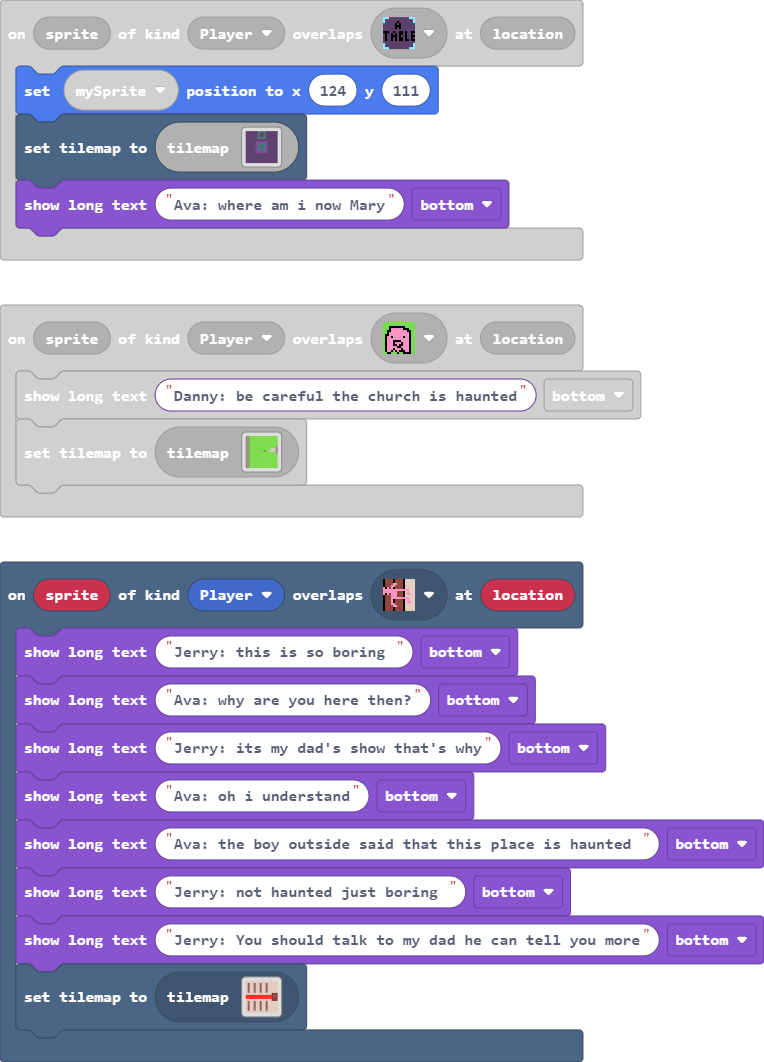
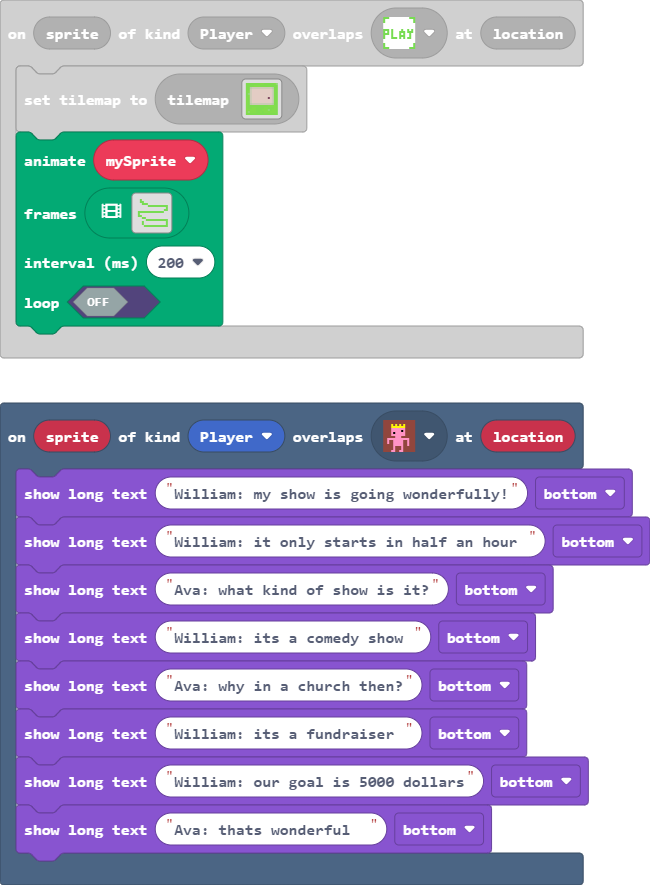
qwsdrfg

diff --git a/main.ts b/main.ts
@@ -355,6 +355,97 @@ scene.onOverlapTile(SpriteKind.Player, assets.tile`myTile21`, function (sprite, 
 })
 scene.onOverlapTile(SpriteKind.Player, assets.tile`myTile20`, function (sprite, location) {
     tiles.setCurrentTilemap(tilemap`level1`)
+    animation.runImageAnimation(
+    mySprite,
+    [img`
+        . . . . . . . . . . . . . . . . 
+        . . 7 . . . . . . . . . . . . . 
+        . . 7 7 . . . . . . . . . . . . 
+        . . . 7 7 7 . . . . . . . . . . 
+        . . . . . . 7 7 7 7 7 7 7 7 7 7 
+        . . . . . . . . . . . . . . . 7 
+        . . . . . . . . . . . . . . 7 7 
+        . 7 7 7 7 7 7 7 7 7 7 7 7 7 . . 
+        . 7 . . . . . . . . . . . . . . 
+        . 7 7 . . . . . . . . . . . . . 
+        . . . 7 7 . . . . . . . . . . . 
+        . . . . . 7 7 7 7 7 7 7 7 7 7 7 
+        . . . 7 . . . . . . . . . . . 7 
+        . . . 7 . . . . . . . . . . . 7 
+        . . . . 7 7 7 7 7 7 7 7 7 7 7 7 
+        . . . . . . . . . . . . . . . . 
+        `,img`
+        . . . . . . . . . . . . . . . . 
+        . . 7 . . . . . . . . . . . . . 
+        . . 7 7 . . . . 7 7 7 7 7 7 . . 
+        . . . 7 7 7 7 7 7 7 7 7 7 7 . . 
+        . . . 7 7 . 7 7 7 7 7 7 7 7 7 7 
+        . . 7 . . . . . . . . . . . . 7 
+        . . 7 . . . . . . . . . . . 7 7 
+        . 7 7 7 7 7 7 7 7 7 7 7 7 7 . . 
+        . 7 . . 7 7 7 7 7 7 . . . . . . 
+        . 7 7 . . . . . . . 7 7 . . . . 
+        . . . 7 7 . . . . . 7 7 . . . . 
+        . . . . . 7 7 7 7 7 7 7 7 7 7 7 
+        . . . 7 7 7 7 7 . . . . . . . 7 
+        . . . 7 . . . . . . . . . . . 7 
+        . . . . 7 7 7 7 7 7 7 7 7 7 7 7 
+        . . . . . . . . . . . . . . . . 
+        `,img`
+        . . . . . . . . . . . . . . . . 
+        . . 7 . . . . . . . . . . . . . 
+        . . 7 7 . e 7 7 7 7 7 7 7 7 . . 
+        . . . 7 7 7 7 7 7 7 7 7 7 7 . . 
+        . . . 7 7 7 7 7 7 7 7 7 7 7 7 7 
+        . . 7 . . . 7 7 7 7 . . . . . 7 
+        . . 7 . . e e e e e e . . . 7 7 
+        . 7 7 7 e e e 7 7 7 7 e e e . . 
+        . 7 . . e e 7 7 7 d 7 7 e e . . 
+        . 7 7 . . . d d d d d 7 7 7 . . 
+        . . . 7 7 d d d d d d 7 7 7 . . 
+        . . . . 7 7 7 7 7 7 7 7 7 7 7 7 
+        . . . 7 7 7 7 7 a a a a . . . 7 
+        . . . 7 . . . a a . . . . . . 7 
+        . . . . 7 7 f 7 7 7 7 7 f 7 7 7 
+        . . . . . . . . . . . . . . . . 
+        `,img`
+        . . . . . . . . . . . . . . . . 
+        . 7 . . . . . . . . . . . . . . 
+        . 7 7 7 . . . . . . . 7 7 . . . 
+        . . . 7 7 7 7 7 7 7 7 7 7 . . . 
+        . . . . . 7 7 7 7 7 7 7 7 7 7 . 
+        . . . 7 7 7 7 d 7 7 7 7 7 7 7 . 
+        . . 7 7 7 7 7 7 7 7 d e . . . . 
+        7 7 7 . e d f d d 7 7 e . . . . 
+        7 7 . . e d d d d d 7 7 . . . . 
+        7 7 7 7 e e d d d d e 7 . . . . 
+        7 7 7 . e e e d d e e 7 7 . . . 
+        . . 7 7 7 7 7 7 7 7 7 7 7 7 7 7 
+        . . . . . 7 7 7 7 7 7 . . . . 7 
+        . . . . . 7 a a a a 7 . . . . 7 
+        . . . . 7 7 7 7 7 7 7 7 7 7 7 7 
+        . . . 7 7 f f . . f f . . . . . 
+        `,img`
+        . . . . . . . . . . . . . . . . 
+        . . . . . . . . . . . . . . . . 
+        . . . . . . . . . . . . . . . . 
+        . . . . . . . . . . . . . . . . 
+        . . . . . e e e e e e . . . . . 
+        . . . . e e d d d d e e . . . . 
+        . . . . e d d d d d d e . . . . 
+        . . . . e d f d d f d e . . . . 
+        . . . . e d d d d d d e . . . . 
+        . . . . e e d d d d e e . . . . 
+        . . . . e e e d d e e e . . . . 
+        . . . . . 7 7 7 7 7 7 . . . . . 
+        . . . . . 7 7 7 7 7 7 . . . . . 
+        . . . . . 7 a a a a 7 . . . . . 
+        . . . . . d a . . a d . . . . . 
+        . . . . . f f . . f f . . . . . 
+        `],
+    200,
+    false
+    )
 })
 controller.right.onEvent(ControllerButtonEvent.Pressed, function () {
     animation.runImageAnimation(
@@ -491,6 +582,16 @@ info.onScore(3, function () {
 scene.onOverlapTile(SpriteKind.Player, assets.tile`myTile10`, function (sprite, location) {
     game.showLongText("Hey Ava i know that you are very smart so can you solve my riddle", DialogLayout.Bottom)
     tiles.setCurrentTilemap(tilemap`level14`)
+})
+scene.onOverlapTile(SpriteKind.Player, assets.tile`myTile35`, function (sprite, location) {
+    game.showLongText("William: my show is going wonderfully!", DialogLayout.Bottom)
+    game.showLongText("William: it only starts in half an hour ", DialogLayout.Bottom)
+    game.showLongText("Ava: what kind of show is it?", DialogLayout.Bottom)
+    game.showLongText("William: its a comedy show ", DialogLayout.Bottom)
+    game.showLongText("Ava: why in a church then?", DialogLayout.Bottom)
+    game.showLongText("William: its a fundraiser ", DialogLayout.Bottom)
+    game.showLongText("William: our goal is 5000 dollars", DialogLayout.Bottom)
+    game.showLongText("Ava: thats wonderful  ", DialogLayout.Bottom)
 })
 scene.onOverlapTile(SpriteKind.Player, assets.tile`myTile11`, function (sprite, location) {
     game.showLongText("what has 4 legs but cant walk", DialogLayout.Bottom)

diff --git a/tilemap.g.ts b/tilemap.g.ts
@@ -106,6 +106,10 @@ namespace myTiles {
     export const tile51 = image.ofBuffer(hex``);
     //% fixedInstance jres blockIdentity=images._tile
     export const tile52 = image.ofBuffer(hex``);
+    //% fixedInstance jres blockIdentity=images._tile
+    export const tile53 = image.ofBuffer(hex``);
+    //% fixedInstance jres blockIdentity=images._tile
+    export const tile54 = image.ofBuffer(hex``);
 
     helpers._registerFactory("tilemap", function(name: string) {
         switch(helpers.stringTrim(name)) {
@@ -603,25 +607,6 @@ namespace myTiles {
 . . . . . . . . . . . . . . . . 
 . . . . . . . . . . . . . . . . 
 `, [myTiles.transparency16], TileScale.Sixteen);
-            case "level7":
-            case "level7":return tiles.createTilemap(hex`1000100001010101010101010101010101010101010101010101010101010101010101010101010102020101010101010101010101010102010102010101010101010101010101020101020101010101010101010101010102020101010101010101010101010101010301010101010101010101010101010101010101010101010101010101010101010101010101010101010101010101010101010101010101010101010101010101010101010101010101010101010101010101010101010101010101010101010101010101010101010101010101010101010101010101010101010101010101010101010101010101010101010101010101010101010101010101`, img`
-. . . . . . . . . 2 . . . . . . 
-. . . . . . . . . 2 . . . . . . 
-. . . . . . . . . 2 . . . . . . 
-. . . . . . . . . 2 . . . . . . 
-. . . . . . . . . 2 . . . . . . 
-. . . . . . . . . 2 . . . . . . 
-. . . . . . . . . 2 . . . . . . 
-. . . . . . . . . 2 . . . . . . 
-2 2 2 2 2 2 2 2 2 2 . . . . . . 
-. . . . . . . . . . . . . . . . 
-. . . . . . . . . . . . . . . . 
-. . . . . . . . . . . . . . . . 
-. . . . . . . . . . . . . . . . 
-. . . . . . . . . . . . . . . . 
-. . . . . . . . . . . . . . . . 
-. . . . . . . . . . . . . . . . 
-`, [myTiles.transparency16,myTiles.tile20,myTiles.tile21,myTiles.tile22], TileScale.Sixteen);
             case "level2":
[1 lines of base64/hex data omitted]
 . . . . . . . . . . . . . . . . 
@@ -793,6 +778,25 @@ namespace myTiles {
 . . . . . . . . . . . . . . . . 
 . . . . . . . . . . . . . . . . 
 `, [myTiles.transparency16,myTiles.tile38,myTiles.tile39,myTiles.tile40,myTiles.tile41,myTiles.tile42,myTiles.tile43,myTiles.tile44,myTiles.tile45,myTiles.tile46,myTiles.tile48,myTiles.tile49,myTiles.tile50,myTiles.tile52,myTiles.tile37], TileScale.Sixteen);
+            case "level7":
+            case "level7":return tiles.createTilemap(hex`1000100001010101010101010101010101010101010101010101010101010101010101010101010102020101010101010101010101010102010102050101010101010101010104020101020101010101010101010101010102020101010101010101010101010101010301010101010101010101010101010101010101010101010101010101010101010101010101010101010101010101010101010101010101010101010101010101010101010101010101010101010101010101010101010101010101010101010101010101010101010101010101010101010101010101010101010101010101010101010101010101010101010101010101010101010101010101`, img`
+. . . . . . . . . 2 . . . . . . 
+. . . . . . . . . 2 . . . . . . 
+. . . . . . . . . 2 . . . . . . 
+. . . . . . . . . 2 . . . . . . 
+. . . . . . . . . 2 . . . . . . 
+. . . . . . . . . 2 . . . . . . 
+. . . . . . . . . 2 . . . . . . 
+. . . . . . . . . 2 . . . . . . 
+2 2 2 2 2 2 2 2 2 2 . . . . . . 
+. . . . . . . . . . . . . . . . 
+. . . . . . . . . . . . . . . . 
+. . . . . . . . . . . . . . . . 
+. . . . . . . . . . . . . . . . 
+. . . . . . . . . . . . . . . . 
+. . . . . . . . . . . . . . . . 
+. . . . . . . . . . . . . . . . 
+`, [myTiles.transparency16,myTiles.tile20,myTiles.tile21,myTiles.tile22,myTiles.tile53,myTiles.tile54], TileScale.Sixteen);
         }
         return null;
     })
@@ -904,6 +908,10 @@ namespace myTiles {
             case "tile51":return tile51;
             case "myTile50":
             case "tile52":return tile52;
+            case "myTile51":
+            case "tile53":return tile53;
+            case "myTile52":
+            case "tile54":return tile54;
         }
         return null;
     })
